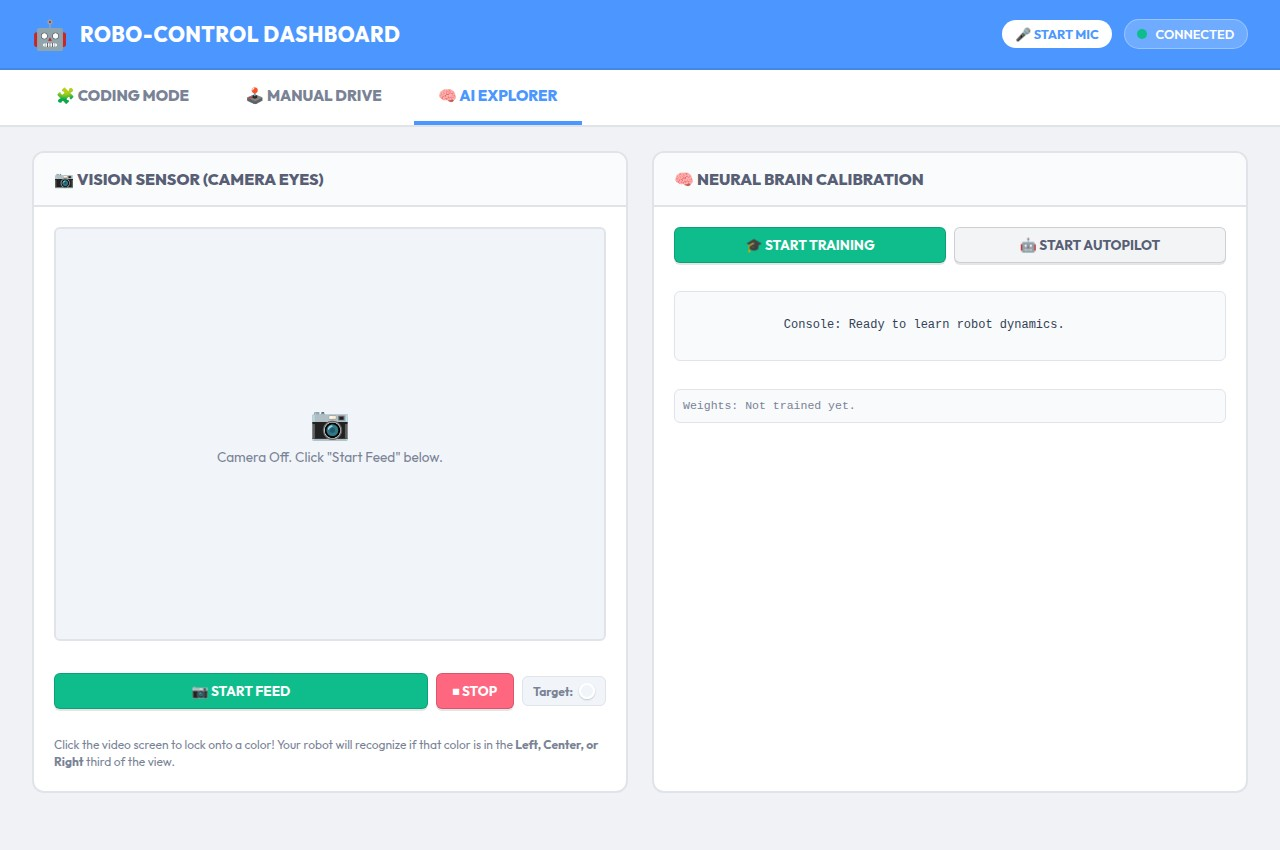
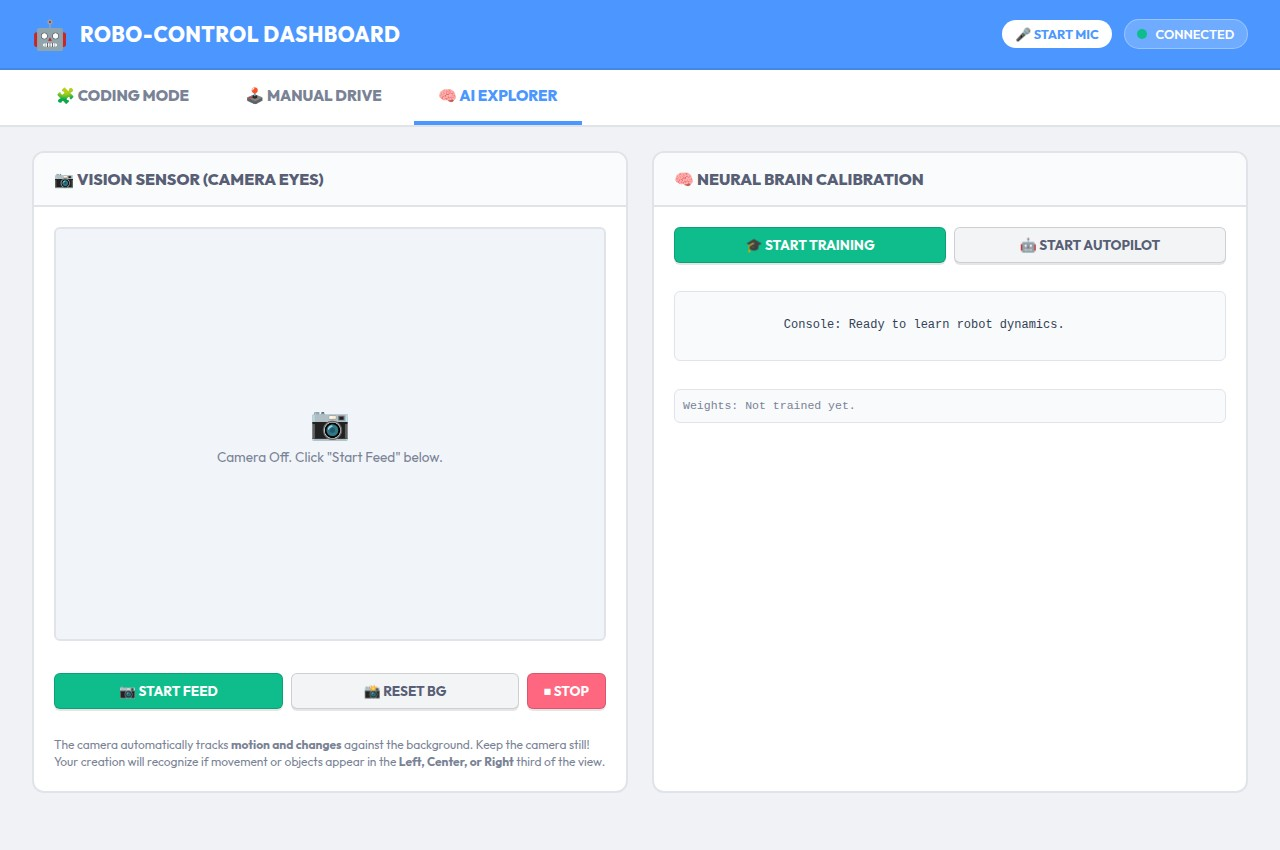
Remove sticker target tracking, implement background-differencing motion tracking for stickerless self-discovery in AI Explorer mode, and update documentation

Changed region(s): [[0.0312, 0.7647, 0.5, 0.9176]]

diff --git a/static/app.js b/static/app.js
@@ -838,25 +838,25 @@ async function onClapDetected() {
 }
 
 
-// --- 📷 CLIENT-SIDE COMPUTER VISION COLOR TRACKING ---
+// --- 📷 CLIENT-SIDE COMPUTER VISION MOTION/CHANGE TRACKING ---
 
 const visionVideo = document.getElementById('vision-video');
 const visionCanvas = document.getElementById('vision-canvas');
 const visionPlaceholder = document.getElementById('vision-placeholder');
 const btnStartVision = document.getElementById('btn-start-vision');
 const btnStopVision = document.getElementById('btn-stop-vision');
-const colorPreview = document.getElementById('color-preview');
+const btnCalibrateBg = document.getElementById('btn-calibrate-bg');
 
 let visionActive = false;
 let visionStream = null;
-let targetColor = { r: 255, g: 0, b: 0 }; // Default tracking color: Red
-let colorTolerance = 55; // Sensitivity margin for matching
+let backgroundFrameData = null; // Stored background reference
+let motionThreshold = 40; // Pixel change sensitivity threshold
 let visionResult = 'none'; // 'left', 'center', 'right', or 'none'
 
 // Centroid tracking coordinate states shared with neural network
 let currentCentroid = { x: 0, y: 0, detected: false };
 
-// Frame differencing variables to detect if the robot is moving or stuck (blocked)
+// Frame differencing variables to detect if the creation is moving or stuck
 let lastFrameData = null;
 let currentFrameDiff = 0;
 
@@ -865,6 +865,22 @@ visionCanvas.width = 320;
 visionCanvas.height = 240;
 
 const ctx = visionCanvas.getContext('2d');
+
+// Copy current camera frame into background reference
+function captureBackground() {
+  if (!visionActive) return;
+  try {
+    ctx.drawImage(visionVideo, 0, 0, visionCanvas.width, visionCanvas.height);
+    const imgData = ctx.getImageData(0, 0, visionCanvas.width, visionCanvas.height);
+    if (!backgroundFrameData || backgroundFrameData.length !== imgData.data.length) {
+      backgroundFrameData = new Uint8ClampedArray(imgData.data.length);
+    }
+    backgroundFrameData.set(imgData.data);
+    console.log("Background frame captured successfully!");
+  } catch (err) {
+    console.error("Failed to capture background:", err);
+  }
+}
 
 btnStartVision.addEventListener('click', async () => {
   if (visionActive) return;
@@ -878,9 +894,15 @@ btnStartVision.addEventListener('click', async () => {
     visionVideo.style.display = 'block';
     visionCanvas.style.display = 'block';
     visionPlaceholder.style.display = 'none';
+    btnCalibrateBg.disabled = false;
     
     visionActive = true;
     requestAnimationFrame(processFrame);
+    
+    // Auto-capture background after 1.2s to allow camera exposure to stabilize
+    setTimeout(() => {
+      captureBackground();
+    }, 1200);
   } catch (err) {
     alert("Could not access camera: " + err.message);
   }
@@ -892,7 +914,9 @@ async function stopVisionFeed() {
   visionResult = 'none';
   currentCentroid.detected = false;
   lastFrameData = null;
+  backgroundFrameData = null;
   currentFrameDiff = 0;
+  btnCalibrateBg.disabled = true;
   
   if (visionStream) {
     visionStream.getTracks().forEach(track => track.stop());
@@ -916,37 +940,12 @@ async function stopVisionFeed() {
 
 btnStopVision.addEventListener('click', stopVisionFeed);
 
-// Click-to-pick target tracking color
-visionCanvas.addEventListener('click', (e) => {
-  if (!visionActive) return;
-  
-  const rect = visionCanvas.getBoundingClientRect();
-  const x = Math.floor(((e.clientX - rect.left) / rect.width) * visionCanvas.width);
-  const y = Math.floor(((e.clientY - rect.top) / rect.height) * visionCanvas.height);
-  
-  // Pick color to track
-  try {
-    const pixel = ctx.getImageData(x, y, 1, 1).data;
-    targetColor = { r: pixel[0], g: pixel[1], b: pixel[2] };
-    colorPreview.style.backgroundColor = `rgb(${targetColor.r}, ${targetColor.g}, ${targetColor.b})`;
-    
-    // If we are in color registration training step, check if the color is registered successfully
-    if (trainingState === 'COLOR_REGISTER') {
-      setTimeout(() => {
-        if (currentCentroid.detected) {
-          logConsole(`Robot scanned successfully! Centroid locked at (${Math.floor(currentCentroid.x)}, ${Math.floor(currentCentroid.y)})`);
-          startCountdownAndCalibrate();
-        } else {
-          logConsole("Scan failed. Marker not recognized. Click again on a bright, distinct color on the robot.");
-        }
-      }, 120);
-    }
-  } catch (err) {
-    console.error("Color picker failed:", err);
-  }
+btnCalibrateBg.addEventListener('click', () => {
+  captureBackground();
+  logConsole("Background calibrated successfully!");
 });
 
-// Image Processing loop (Color Blob Tracking + Visual Motion Diff + UI overlays)
+// Image Processing loop (Background Differencing + Visual Motion Diff + UI overlays)
 function processFrame() {
   if (!visionActive) return;
   
@@ -958,7 +957,7 @@ function processFrame() {
     const imgData = ctx.getImageData(0, 0, visionCanvas.width, visionCanvas.height);
     const data = imgData.data;
     
-    // 1. Calculate frame-to-frame change (difference) to detect if robot is blocked/moving
+    // 1. Calculate frame-to-frame change (difference) to detect if creation is blocked/moving
     if (lastFrameData) {
       let diffSum = 0;
       let pixelStep = 8;
@@ -978,31 +977,44 @@ function processFrame() {
     }
     lastFrameData.set(data);
     
-    // 2. Color Blob Tracking (tracking robot's visual marker)
+    // 2. Background differencing to find moving/changed parts (magic tracking)
     let sumX = 0;
     let sumY = 0;
     let matchCount = 0;
     
-    for (let i = 0; i < data.length; i += 4) {
-      const r = data[i];
-      const g = data[i+1];
-      const b = data[i+2];
-      
-      const dist = Math.sqrt(
-        (r - targetColor.r) ** 2 +
-        (g - targetColor.g) ** 2 +
-        (b - targetColor.b) ** 2
-      );
-      
-      if (dist < colorTolerance) {
-        const idx = i / 4;
-        const x = idx % visionCanvas.width;
-        const y = Math.floor(idx / visionCanvas.width);
+    if (backgroundFrameData) {
+      for (let i = 0; i < data.length; i += 4) {
+        const r = data[i];
+        const g = data[i+1];
+        const b = data[i+2];
         
-        sumX += x;
-        sumY += y;
-        matchCount++;
+        const bg_r = backgroundFrameData[i];
+        const bg_g = backgroundFrameData[i+1];
+        const bg_b = backgroundFrameData[i+2];
+        
+        // Euclidean distance in RGB color space
+        const dist = Math.sqrt(
+          (r - bg_r) ** 2 +
+          (g - bg_g) ** 2 +
+          (b - bg_b) ** 2
+        );
+        
+        if (dist > motionThreshold) {
+          const idx = i / 4;
+          const x = idx % visionCanvas.width;
+          const y = Math.floor(idx / visionCanvas.width);
+          
+          sumX += x;
+          sumY += y;
+          matchCount++;
+          
+          // Draw a light red tint overlay on changed pixels
+          data[i] = Math.min(255, data[i] + 40);
+        }
       }
+      
+      // Update canvas with highlighted pixels
+      ctx.putImageData(imgData, 0, 0);
     }
     
     // Draw visual sector grid division lines (35% and 65%)
@@ -1017,7 +1029,8 @@ function processFrame() {
     ctx.moveTo(div2, 0); ctx.lineTo(div2, visionCanvas.height);
     ctx.stroke();
     
-    if (matchCount > 40) {
+    // Require at least 150 matching pixels to filter out noise
+    if (matchCount > 150) {
       const avgX = sumX / matchCount;
       const avgY = sumY / matchCount;
       
@@ -1031,7 +1044,7 @@ function processFrame() {
         visionResult = 'center';
       }
       
-      // Draw crosshair target on robot marker
+      // Draw crosshair target on the tracked movement centroid
       ctx.strokeStyle = 'var(--cyan-accent)';
       ctx.lineWidth = 2;
       ctx.beginPath();
@@ -1078,7 +1091,7 @@ async function sendVisionResult() {
 
 let learningModeActive = false;
 let autopilotActive = false;
-let trainingState = 'IDLE'; // 'IDLE', 'COLOR_REGISTER', 'BABBLING'
+let trainingState = 'IDLE'; // 'IDLE', 'BG_CAPTURE', 'BABBLING'
 let learningSamples = [];
 
 // Single-Layer Perceptron weights and biases mapping (dx, dy) -> Motor speeds (A, B)
@@ -1110,8 +1123,8 @@ async function triggerCalibMove(motor, steps) {
   }
 }
 
-// NN Start Button triggers color registration step
-btnLearnStart.addEventListener('click', () => {
+// NN Start Button triggers background calibration step
+btnLearnStart.addEventListener('click', async () => {
   if (learningModeActive) return;
   
   // Guard check: camera feed must be active
@@ -1121,16 +1134,19 @@ btnLearnStart.addEventListener('click', () => {
   }
   
   if (trainingState === 'IDLE') {
-    trainingState = 'COLOR_REGISTER';
-    btnLearnStart.innerText = "🎯 SCANNED?";
-    btnLearnStart.classList.add('btn-stop');
-    btnLearnStart.classList.remove('btn-run');
+    trainingState = 'BG_CAPTURE';
+    btnLearnStart.innerText = "📸 CALIBRATING...";
+    btnLearnStart.disabled = true;
     
     learnConsole.innerText = "Console: WIZARD STARTED.";
-    logConsole("STEP 1: SCAN THE CREATION!");
-    logConsole("Click directly on your creation's colored tracking marker in the camera view above to register its color.");
-  } else if (trainingState === 'COLOR_REGISTER') {
-    logConsole("Still waiting for creation scan. Click on your creation's colored marker in the video viewport.");
+    logConsole("STEP 1: BACKGROUND CALIBRATION");
+    logConsole("Capturing background scene... Please make sure your creation is STILL and hands are out of the frame.");
+    
+    await delay(1200); // Wait 1.2s for camera stability
+    captureBackground();
+    logConsole("Background captured successfully!");
+    
+    startCountdownAndCalibrate();
   }
 });
 
@@ -1143,7 +1159,7 @@ async function startCountdownAndCalibrate() {
   btnLearnTest.disabled = true;
   btnLearnTest.innerText = "🤖 START AUTOPILOT";
   
-  logConsole("Robot locked! Keep workspace clear.");
+  logConsole("Creation locked! Keep workspace clear.");
   await delay(600);
   
   logConsole("Starting kinematics babble in 3...");
@@ -1162,55 +1178,60 @@ async function runBabblingCalibration() {
   logConsole("Executing motor babble sequence...");
   
   try {
+    // Helper function to resolve current centroid coordinate (home is 160, 120)
+    const getCent = () => currentCentroid.detected ? 
+      { x: currentCentroid.x, y: currentCentroid.y } : 
+      { x: 160, y: 120 };
+
     // --- Step 1: Babble Motor A (+) ---
     logConsole("Testing Left Motor A (+)...");
     await delay(500);
-    let startCent = { x: currentCentroid.x, y: currentCentroid.y };
+    let startCent = getCent();
     await triggerCalibMove('A', 350);
     await delay(1600);
     
-    if (!currentCentroid.detected) throw new Error("Lost tracking target! Place the target back and try again.");
-    let dx = currentCentroid.x - startCent.x;
-    let dy = currentCentroid.y - startCent.y;
+    let endCent = getCent();
+    let dx = endCent.x - startCent.x;
+    let dy = endCent.y - startCent.y;
     learningSamples.push({ motorA: 1.0, motorB: 0.0, dx: dx, dy: dy });
     logConsole(`A(+) displacement: dx=${dx.toFixed(1)}px, dy=${dy.toFixed(1)}px`);
     
     // --- Step 2: Babble Motor A (-) ---
     logConsole("Testing Left Motor A (-)...");
     await delay(500);
-    startCent = { x: currentCentroid.x, y: currentCentroid.y };
+    startCent = getCent();
     await triggerCalibMove('A', -350);
     await delay(1600);
     
-    if (!currentCentroid.detected) throw new Error("Lost tracking target!");
-    dx = currentCentroid.x - startCent.x;
-    dy = currentCentroid.y - startCent.y;
+    endCent = getCent();
+    dx = endCent.x - startCent.x;
+    dy = endCent.y - startCent.y;
     learningSamples.push({ motorA: -1.0, motorB: 0.0, dx: dx, dy: dy });
     logConsole(`A(-) displacement: dx=${dx.toFixed(1)}px, dy=${dy.toFixed(1)}px`);
     
     // --- Step 3: Babble Motor B (+) ---
     logConsole("Testing Right Motor B (+)...");
     await delay(500);
-    startCent = { x: currentCentroid.x, y: currentCentroid.y };
+    startCent = getCent();
     await triggerCalibMove('B', 350);
     await delay(1600);
     
-    if (!currentCentroid.detected) throw new Error("Lost tracking target!");
-    dx = currentCentroid.x - startCent.x;
-    dy = currentCentroid.y - startCent.y;
+    endCent = getCent();
+    dx = endCent.x - startCent.x;
+    dy = endCent.y - startCent.y;
     learningSamples.push({ motorA: 0.0, motorB: 1.0, dx: dx, dy: dy });
     logConsole(`B(+) displacement: dx=${dx.toFixed(1)}px, dy=${dy.toFixed(1)}px`);
     
     // --- Step 4: Babble Motor B (-) ---
     logConsole("Testing Right Motor B (-)...");
     await delay(500);
-    startCent = { x: currentCentroid.x, y: currentCentroid.y };
+    startCent = getCent();
     await triggerCalibMove('B', -350);
     await delay(1600);
     
-    if (!currentCentroid.detected) throw new Error("Lost tracking target!");
-    dx = currentCentroid.x - startCent.x;
-    dy = currentCentroid.y - startCent.y;
+    endCent = getCent();
+    dx = endCent.x - startCent.x;
+    dy = endCent.y - startCent.y;
     learningSamples.push({ motorA: 0.0, motorB: -1.0, dx: dx, dy: dy });
     logConsole(`B(-) displacement: dx=${dx.toFixed(1)}px, dy=${dy.toFixed(1)}px`);
     

diff --git a/static/index.html b/static/index.html
@@ -175,13 +175,10 @@
             </div>
             <div class="vision-controls">
               <button class="btn btn-run" id="btn-start-vision" style="flex: 1;">📷 START FEED</button>
+              <button class="btn btn-clear" id="btn-calibrate-bg" style="flex: 1;" disabled>📸 RESET BG</button>
               <button class="btn btn-stop" id="btn-stop-vision">⏹ STOP</button>
-              <div class="color-indicator-group">
-                <span class="color-label">Target:</span>
-                <div class="color-preview" id="color-preview"></div>
-              </div>
             </div>
-            <div class="vision-help">Click the video screen to lock onto a color! Your robot will recognize if that color is in the <b>Left, Center, or Right</b> third of the view.</div>
+            <div class="vision-help">The camera automatically tracks <b>motion and changes</b> against the background. Keep the camera still! Your creation will recognize if movement or objects appear in the <b>Left, Center, or Right</b> third of the view.</div>
           </div>
         </section>
 

diff --git a/README.md b/README.md
@@ -35,13 +35,13 @@ Drive your creation directly using virtual vertical joysticks! Slide them up or 
 ### 🧠 3. AI Explorer Mode (Kinematic Discovery)
 This is where the magic happens! Your creation doesn't need to know what it is. In this mode, the phone watches the creation from a stand and **helps it discover its own body** (whether it's a crane, a car, or a catapult).
 
-1.  **Scan the Sticker:** Put a bright colored sticker on the moving part of your build. Click **Start Training** and tap that sticker on your phone screen to lock the target.
-2.  **Kinematic Babbling:** The creation automatically wiggles its motors. The camera measures how each wiggle moves the sticker on the screen.
+1.  **Background Calibration:** Click **Start Training**. The dashboard automatically captures the static background scene. Keep the camera completely still and hands out of the frame!
+2.  **Kinematic Babbling:** The creation automatically wiggles its motors. Using magic background differencing, the camera detects how each wiggle moves the creation's body parts in real time.
 3.  **Self-Discovery:** 
     *   *"Oh, I am a crane! Turning Motor A lifts my arm up!"*
     *   *"Oh, I am a car! Turning Motor A drives me forward, and Motor B steers me!"*
     *   *"Oh, I am a catapult! Motor A winds up my spring cog!"*
-4.  **Autonomous Autopilot:** Click **Start Autopilot** and watch your creation navigate its moving parts to follow colors or wander around using what it learned!
+4.  **Autonomous Autopilot:** Click **Start Autopilot** and watch your creation navigate its parts. If you wave a hand or move objects, it will track the movement and move its own body to follow it!
 
 ![AI Explorer in Action](screenshots/view-ai.jpg)
 